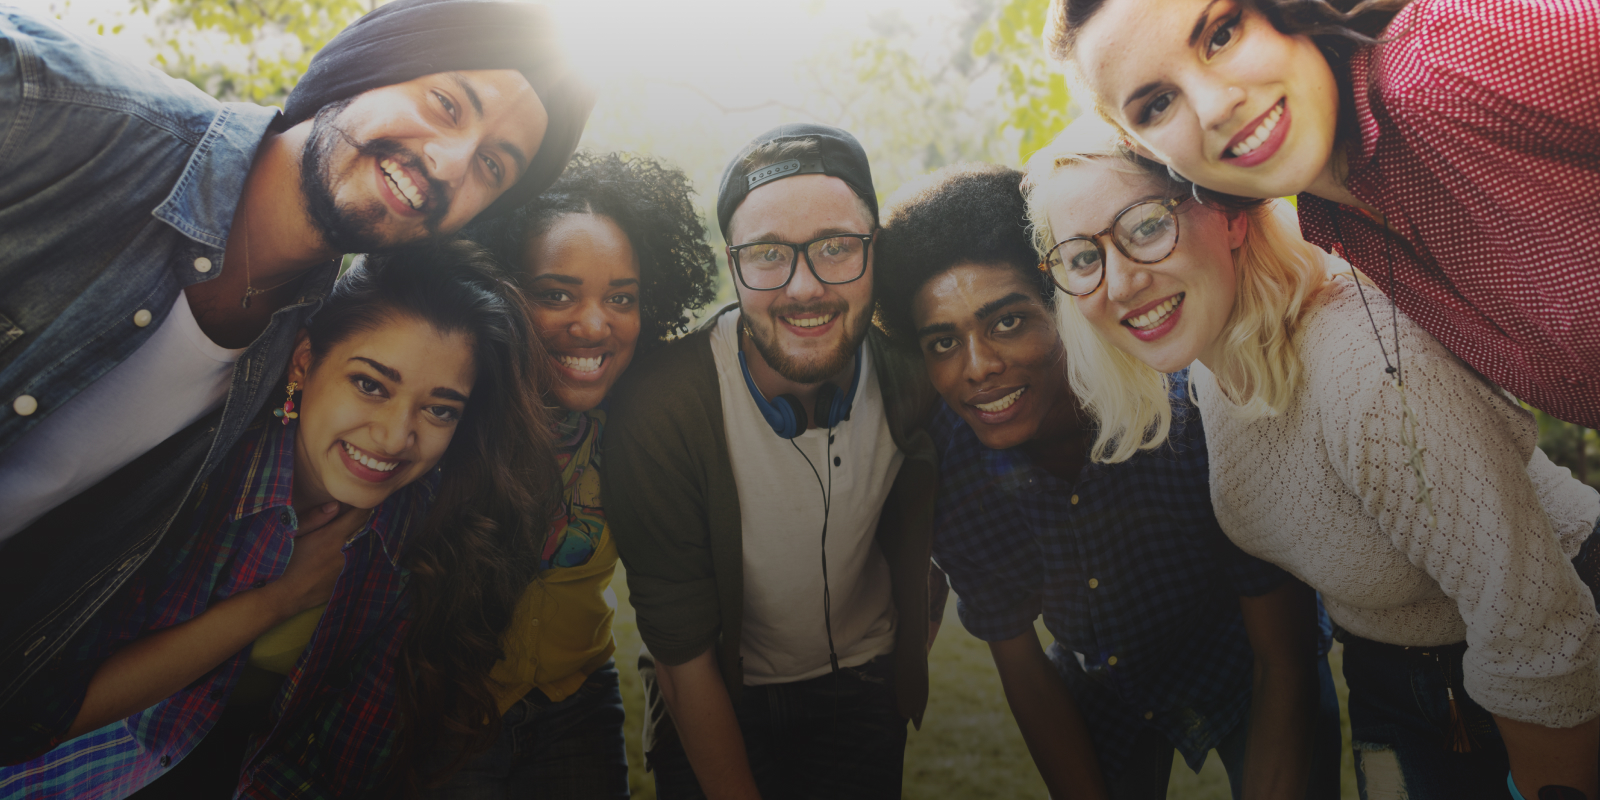
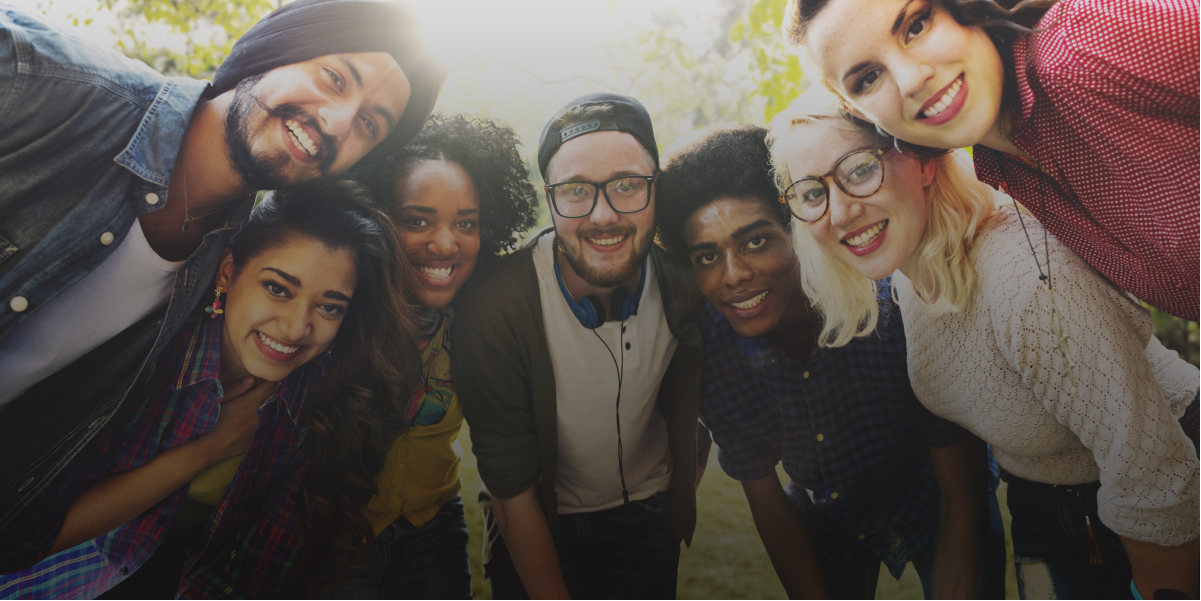
Update cover background image

diff --git a/_site/css/style.css b/_site/css/style.css
@@ -1,1 +1,1 @@
-@keyframes spinAround{from{transform:rotate(0deg)}to{transform:rotate(359deg)}}@media (max-width: 767px){body{padding:1.25rem}}main{min-height:10vh}.cover{background-image:url("/static/img/diversity-bg.jpg");text-shadow:2px 6px 8px rgba(0,0,0,0.29)}.padding{padding:20px 0}.elm-rounded{border-radius:.9375rem}@media (max-width: 767px){.elm-rounded{border-radius:0}}
+@keyframes spinAround{from{transform:rotate(0deg)}to{transform:rotate(359deg)}}@media (max-width: 767px){body{padding:1.25rem}}main{min-height:10vh}.cover{background-image:url("/static/img/diversity-bg.jpg");background-size:cover;background-repeat:no-repeat;object-fit:cover;text-shadow:2px 6px 8px rgba(0,0,0,0.29)}.padding{padding:20px 0}.elm-rounded{border-radius:.9375rem}@media (max-width: 767px){.elm-rounded{border-radius:0}}

diff --git a/css/style.css b/css/style.css
@@ -1,1 +1,1 @@
-@keyframes spinAround{from{transform:rotate(0deg)}to{transform:rotate(359deg)}}@media (max-width: 767px){body{padding:1.25rem}}main{min-height:10vh}.cover{background-image:url("/static/img/diversity-bg.jpg");text-shadow:2px 6px 8px rgba(0,0,0,0.29)}.padding{padding:20px 0}.elm-rounded{border-radius:.9375rem}@media (max-width: 767px){.elm-rounded{border-radius:0}}
+@keyframes spinAround{from{transform:rotate(0deg)}to{transform:rotate(359deg)}}@media (max-width: 767px){body{padding:1.25rem}}main{min-height:10vh}.cover{background-image:url("/static/img/diversity-bg.jpg");background-size:cover;background-repeat:no-repeat;object-fit:cover;text-shadow:2px 6px 8px rgba(0,0,0,0.29)}.padding{padding:20px 0}.elm-rounded{border-radius:.9375rem}@media (max-width: 767px){.elm-rounded{border-radius:0}}

diff --git a/css/style.scss b/css/style.scss
@@ -14,6 +14,9 @@ main {
 
 .cover {
 	background-image: url('/static/img/diversity-bg.jpg');
+	background-size: cover;
+	background-repeat: no-repeat;
+	object-fit: cover;
 	text-shadow: 2px 6px 8px rgba(0, 0, 0, 0.29);
 }
 
